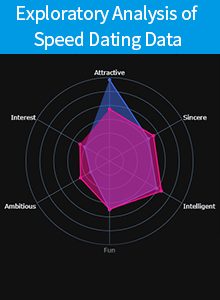
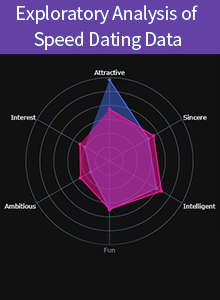
update

Changed region(s): [[0.0, 0.0, 1.0, 0.18]]

diff --git a/index.html b/index.html
@@ -21,7 +21,7 @@
 <!--Presentation div-->
 <!--Presentation div-->
 
-<svg width="100%" height="100%" id="svg" viewBox="0 0 1440 700" xmlns="http://www.w3.org/2000/svg" class="presentation_svg"><defs><linearGradient id="gradient" x1="92%" y1="23%" x2="8%" y2="77%"><stop offset="5%" stop-color="#5f80e8ff"></stop><stop offset="95%" stop-color="#6441a5ff"></stop></linearGradient></defs><path d="M 0,700 C 0,700 0,350 0,350 C 112.66666666666663,280.26666666666665 225.33333333333326,210.53333333333333 407,227 C 588.6666666666667,243.46666666666667 839.3333333333335,346.1333333333333 1023,381 C 1206.6666666666665,415.8666666666667 1323.3333333333333,382.93333333333334 1440,350 C 1440,350 1440,700 1440,700 Z" stroke="none" stroke-width="0" fill="url(#gradient)" class="transition-all duration-300 ease-in-out delay-150 path-0" transform="rotate(-180 720 350)"></path></svg>
+<svg width="100%" height="100%" id="svg" viewBox="0 0 1440 700" xmlns="http://www.w3.org/2000/svg" class="presentation_svg"><defs><linearGradient id="gradient" x1="92%" y1="23%" x2="8%" y2="77%"><stop offset="5%" stop-color="#5f80e8ff"></stop><stop offset="95%" stop-color="#6441a5"></stop></linearGradient></defs><path d="M 0,700 C 0,700 0,350 0,350 C 112.66666666666663,280.26666666666665 225.33333333333326,210.53333333333333 407,227 C 588.6666666666667,243.46666666666667 839.3333333333335,346.1333333333333 1023,381 C 1206.6666666666665,415.8666666666667 1323.3333333333333,382.93333333333334 1440,350 C 1440,350 1440,700 1440,700 Z" stroke="none" stroke-width="0" fill="url(#gradient)" class="transition-all duration-300 ease-in-out delay-150 path-0" transform="rotate(-180 720 350)"></path></svg>
 
 <div class="presentation_area">
     <div class="box">
@@ -31,7 +31,7 @@
             <h3>Data Analyst/Engineer</h3>
             <div class="underline"></div>
             <p>
-                My role consist of helping companies to gather and analyze their data. I can extract, store, clean and display data in a meaningful way.
+                My role consists of helping companies to gather and analyze their data. I can extract, store, clean and display data in a meaningful way.
             </p>
         </div>
     </div>

diff --git a/style.css b/style.css
@@ -60,7 +60,7 @@ body {
 /* Colors */
 
 nav ul li:hover {
-	border-bottom: 3px solid #009AE4;
+	border-bottom: 3px solid #5f80e8;
 }  
 
 .presentation_area {
@@ -81,7 +81,7 @@ nav {
 }
 
 .page-content .projects-section .project .card_title {
-	background-color: #009AE4;
+	background-color: #5f80e8;
 }
 
 .page-content .projects-section .project h4 {
@@ -97,7 +97,7 @@ nav {
 }
 
 .project_area {
-	background-color: #009AE4;
+
 }
 
 .project_area p .highlightme{
@@ -113,7 +113,7 @@ nav {
 
 
 footer {
-	background-color: #009AE4;
+	background-color: #6441a5;
 	/* background-color: #8AAAE5; */
 }
 /* Colors */
@@ -303,7 +303,7 @@ h5{
 	display:block;
 	width: 80%;
 	height: 10px;
-	background-color: #6441a5ff;
+	background-color: #6441a5;
 	margin: 0 auto;
 	border-radius: 25px;
 	margin-top: 10px;
